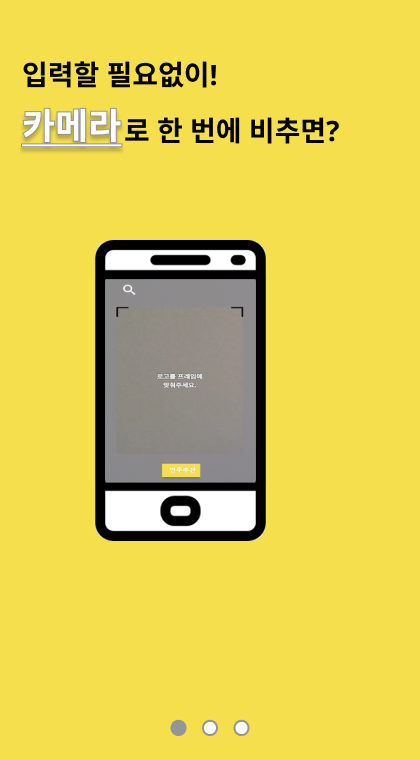
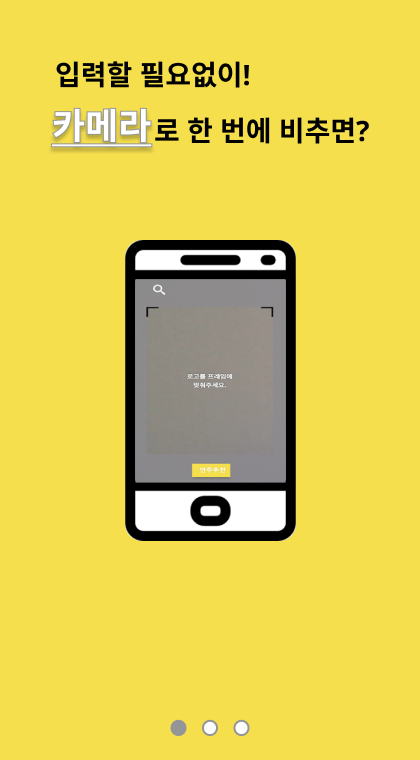
Fix: Fix img, Session Storage

diff --git a/frontend/bear/src/views/LandingPage.vue b/frontend/bear/src/views/LandingPage.vue
@@ -2,7 +2,7 @@
     <el-carousel width="420px" height="760px">
       <el-carousel-item v-for="(item,index) in items" :key="index">
         <img :src="item.image" />  
-        <button id="scanbutton" v-if="item.id === 3" @click="goToAr"><img src="../assets/landing/4.png"></button>    
+        <button id="scanbutton" v-if="item.id === 3" @click="goToAr"><img src="../assets/landing/4-2.png"></button>    
       </el-carousel-item>
     </el-carousel>
 </template>
@@ -15,6 +15,13 @@ export default {
         {id : 2, image: require('../assets/landing/land2-2.gif')},
         {id : 3, image: require('../assets/landing/land3-2.png')}
       ]
+    }
+  },
+  mounted() {
+    if(this.$route.query.accessToken !== undefined){
+      sessionStorage.setItem("token", this.$route.query.accessToken);
+      sessionStorage.setItem("userId", this.$route.query.userId);
+      console.log(sessionStorage.getItem("token"));
     }
   },
   methods: {
@@ -42,7 +49,7 @@ export default {
   #scanbutton{
     position: absolute;
     top: 470px;
-    left: 100px;
+    left: 125px;
     text-decoration: none;
     background-color: transparent !important;
     border-color: transparent !important;

diff --git a/frontend/bear/src/views/LoginPage.vue b/frontend/bear/src/views/LoginPage.vue
@@ -6,7 +6,6 @@
         width="222"
       />
     </a>
-    <button id="custom-logout-btn" type="button" @click="kakaoLogout">카카오 로그아웃</button>
   </div>
 </template>
 <script>
@@ -22,9 +21,6 @@ export default {
     // Kakao.init('15e7887e87b724b15605d38adf95cf84');
     // Kakao.isInitialized();
     // this.kakaoLogout();
-    console.log(this.$route.query.accessToken);
-    console.log(this.$route.query.userId);
-    
   },
   methods: {
     kakaoLogin(){
